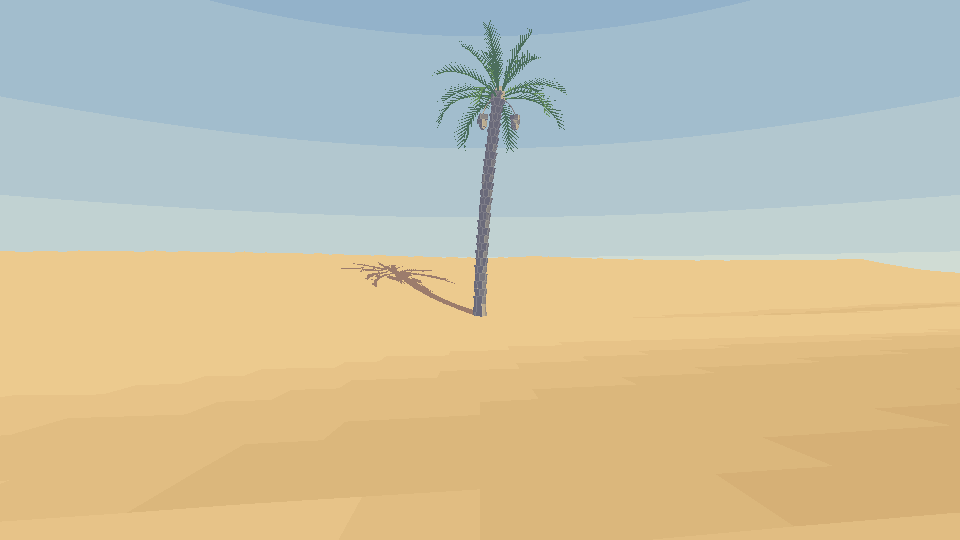
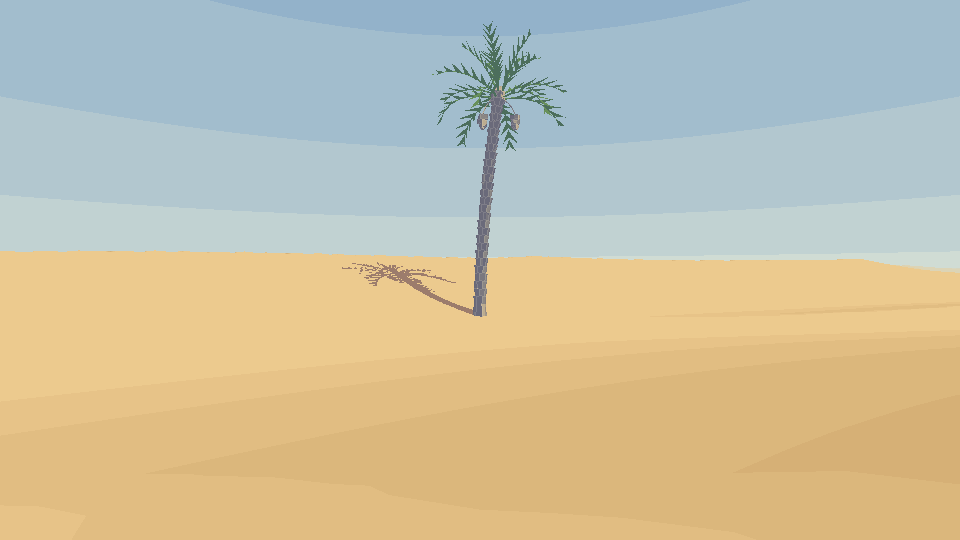
desert-poc cycle 2: smooth dune normals, ground to 380 m with a stitched 4 m ring
- ISSUE-001: per-vertex normals from the dune height function's gradient
- ISSUE-002: 1 m grid within 120 m, 4 m cells out to 380 m, sharing the
  fine border's vertices with no cracks (180,920 triangles)

Changed region(s): [[0.4688, 0.0593, 0.5938, 0.2667], [0.9375, 0.4741, 1.0, 0.5037], [0.375, 0.4741, 0.4062, 0.5333]]

diff --git a/desert/src/world.cpp b/desert/src/world.cpp
@@ -10,6 +10,7 @@
 #include <cmath>
 #include <cstdint>
 #include <string>
+#include <utility>
 #include <vector>
 
 namespace desert {
@@ -61,40 +62,102 @@ float ridgeProfile(float u, float windward) {
   return v * v;
 }
 
-void appendGround(pxe::SurfaceGeometry& geometry) {
-  const int n = static_cast<int>(2.f * kGroundHalf / kGroundCell);
-  // duneHeight at every corner of the grid, row by row along +x.
-  std::vector<float> corner(static_cast<std::size_t>((n + 1) * (n + 1)));
-  for (int j = 0; j <= n; ++j)
-    for (int i = 0; i <= n; ++i)
-      corner[static_cast<std::size_t>(j * (n + 1) + i)] =
-          duneHeight(-kGroundHalf + static_cast<float>(i) * kGroundCell, -kGroundHalf + static_cast<float>(j) * kGroundCell);
-  auto at = [&](int i, int j) {
-    return glm::vec3{-kGroundHalf + static_cast<float>(i) * kGroundCell, corner[static_cast<std::size_t>(j * (n + 1) + i)],
-                     -kGroundHalf + static_cast<float>(j) * kGroundCell};
-  };
+// How far either side of a point the dunes' slope is read for its normal,
+// metres. The same step everywhere, so a vertex the fine and coarse grids
+// share has one normal and the two shade alike where they meet.
+constexpr float kNormalStep = 0.5f;
 
-  // Each cell is two triangles split corner (i, j) to (i+1, j+1), as
-  // groundHeight reads them, each with its own face normal, so the toon
-  // ramp bands the slopes facet by facet.
+// The dunes' smooth normal at world xz, from duneHeight's slope across the
+// point, so the toon ramp bands each slope in contours that follow its
+// curve rather than facet by facet.
+glm::vec3 duneNormal(float x, float z) {
+  const float e = kNormalStep;
+  return glm::normalize(glm::vec3{duneHeight(x - e, z) - duneHeight(x + e, z), 2.f * e,
+                                  duneHeight(x, z - e) - duneHeight(x, z + e)});
+}
+
+void appendGround(pxe::SurfaceGeometry& geometry) {
   std::vector<pxe::Vertex> v;
   std::vector<std::uint32_t> idx;
-  v.reserve(static_cast<std::size_t>(n * n * 6));
-  idx.reserve(static_cast<std::size_t>(n * n * 6));
-  auto triangle = [&](glm::vec3 a, glm::vec3 b, glm::vec3 c) {
-    // Wound counter-clockwise seen from above: meshes are drawn with back
-    // faces culled.
-    const glm::vec3 normal = glm::normalize(glm::cross(b - a, c - a));
-    const auto base = static_cast<std::uint32_t>(v.size());
-    for (const glm::vec3& p : {a, b, c})
-      v.push_back({p.x, p.y, p.z, normal.x, normal.y, normal.z, static_cast<float>(pxe::kSurfSand)});
-    idx.insert(idx.end(), {base, base + 1, base + 2});
+  auto vertex = [&](float x, float z) {
+    const glm::vec3 n = duneNormal(x, z);
+    v.push_back({x, duneHeight(x, z), z, n.x, n.y, n.z, static_cast<float>(pxe::kSurfSand)});
+    return static_cast<std::uint32_t>(v.size() - 1);
   };
-  for (int j = 0; j < n; ++j)
-    for (int i = 0; i < n; ++i) {
-      const glm::vec3 p00 = at(i, j), p10 = at(i + 1, j), p01 = at(i, j + 1), p11 = at(i + 1, j + 1);
-      triangle(p00, p11, p10);
-      triangle(p00, p01, p11);
+  // Wound counter-clockwise seen from above, whatever order the corners
+  // come in: meshes are drawn with back faces culled.
+  auto triangle = [&](std::uint32_t a, std::uint32_t b, std::uint32_t c) {
+    const pxe::Vertex &pa = v[a], &pb = v[b], &pc = v[c];
+    if ((pb.pz - pa.pz) * (pc.px - pa.px) - (pb.px - pa.px) * (pc.pz - pa.pz) < 0.f) std::swap(b, c);
+    idx.insert(idx.end(), {a, b, c});
+  };
+
+  // The fine grid, 1 m cells over the middle, each cell two triangles split
+  // corner (i, j) to (i+1, j+1), as groundHeight reads them.
+  const int nf = static_cast<int>(2.f * kFineHalf / kFineCell);
+  std::vector<std::uint32_t> fine(static_cast<std::size_t>((nf + 1) * (nf + 1)));
+  auto f = [&](int i, int j) { return fine[static_cast<std::size_t>(j * (nf + 1) + i)]; };
+  for (int j = 0; j <= nf; ++j)
+    for (int i = 0; i <= nf; ++i)
+      fine[static_cast<std::size_t>(j * (nf + 1) + i)] =
+          vertex(-kFineHalf + static_cast<float>(i) * kFineCell, -kFineHalf + static_cast<float>(j) * kFineCell);
+  for (int j = 0; j < nf; ++j)
+    for (int i = 0; i < nf; ++i) {
+      triangle(f(i, j), f(i + 1, j + 1), f(i + 1, j));
+      triangle(f(i, j), f(i, j + 1), f(i + 1, j + 1));
+    }
+
+  // The coarse ring, 4 m cells out to the ground's edge. Its corners on the
+  // fine grid's border are the fine grid's own vertices; [c0, c1] is the
+  // fine grid's span in coarse corners, and each coarse side along it holds
+  // `ratio` fine cells.
+  const int nc = static_cast<int>(2.f * kGroundHalf / kCoarseCell);
+  const int c0 = static_cast<int>((kGroundHalf - kFineHalf) / kCoarseCell);
+  const int c1 = nc - c0;
+  const int ratio = static_cast<int>(kCoarseCell / kFineCell);
+  std::vector<std::uint32_t> coarse(static_cast<std::size_t>((nc + 1) * (nc + 1)));
+  auto c = [&](int i, int j) { return coarse[static_cast<std::size_t>(j * (nc + 1) + i)]; };
+  for (int j = 0; j <= nc; ++j)
+    for (int i = 0; i <= nc; ++i) {
+      std::uint32_t& slot = coarse[static_cast<std::size_t>(j * (nc + 1) + i)];
+      if (i >= c0 && i <= c1 && j >= c0 && j <= c1) {
+        // On the fine grid's border, its vertex; inside it, unused.
+        if (i == c0 || i == c1 || j == c0 || j == c1) slot = f((i - c0) * ratio, (j - c0) * ratio);
+        continue;
+      }
+      slot = vertex(-kGroundHalf + static_cast<float>(i) * kCoarseCell, -kGroundHalf + static_cast<float>(j) * kCoarseCell);
+    }
+
+  // A coarse cell beside the fine grid: its near side is the fine border's
+  // vertices side[0..ratio], and its far corners a (beside side[0]) and b
+  // (beside side[ratio]). Fanning the near side's first half to a, its
+  // second half to b, and its middle to both, uses every fine vertex along
+  // the side, so no edge of the fine grid ends part-way along a coarse one.
+  std::vector<std::uint32_t> side(static_cast<std::size_t>(ratio + 1));
+  auto stitch = [&](std::uint32_t a, std::uint32_t b) {
+    const int mid = ratio / 2;
+    for (int k = 0; k < mid; ++k) triangle(side[static_cast<std::size_t>(k)], side[static_cast<std::size_t>(k + 1)], a);
+    triangle(side[static_cast<std::size_t>(mid)], b, a);
+    for (int k = mid; k < ratio; ++k) triangle(side[static_cast<std::size_t>(k)], side[static_cast<std::size_t>(k + 1)], b);
+  };
+  for (int j = 0; j < nc; ++j)
+    for (int i = 0; i < nc; ++i) {
+      const bool alongX = i >= c0 && i < c1, alongZ = j >= c0 && j < c1;
+      if (alongX && alongZ) continue;  // the fine grid's
+      if (alongX && (j == c0 - 1 || j == c1)) {
+        // Below or above the fine grid in z: its near side runs along x.
+        const int row = j == c1 ? nf : 0, far = j == c1 ? j + 1 : j;
+        for (int k = 0; k <= ratio; ++k) side[static_cast<std::size_t>(k)] = f((i - c0) * ratio + k, row);
+        stitch(c(i, far), c(i + 1, far));
+      } else if (alongZ && (i == c0 - 1 || i == c1)) {
+        // Either side of the fine grid in x: its near side runs along z.
+        const int column = i == c1 ? nf : 0, far = i == c1 ? i + 1 : i;
+        for (int k = 0; k <= ratio; ++k) side[static_cast<std::size_t>(k)] = f(column, (j - c0) * ratio + k);
+        stitch(c(far, j), c(far, j + 1));
+      } else {
+        triangle(c(i, j), c(i + 1, j + 1), c(i + 1, j));
+        triangle(c(i, j), c(i, j + 1), c(i + 1, j + 1));
+      }
     }
   geometry.append(pxe::kSurfSand, v, idx);
 }
@@ -118,12 +181,12 @@ float duneHeight(float x, float z) {
 }
 
 float groundHeight(float x, float z) {
-  const float gx = (x + kGroundHalf) / kGroundCell;
-  const float gz = (z + kGroundHalf) / kGroundCell;
+  const float gx = (x + kFineHalf) / kFineCell;
+  const float gz = (z + kFineHalf) / kFineCell;
   const float i = std::floor(gx), j = std::floor(gz);
   const float fx = gx - i, fz = gz - j;
   auto corner = [&](float di, float dj) {
-    return duneHeight(-kGroundHalf + (i + di) * kGroundCell, -kGroundHalf + (j + dj) * kGroundCell);
+    return duneHeight(-kFineHalf + (i + di) * kFineCell, -kFineHalf + (j + dj) * kFineCell);
   };
   const float h00 = corner(0.f, 0.f), h11 = corner(1.f, 1.f);
   // The cell's two triangles, either side of its (i, j)-(i+1, j+1) diagonal.

diff --git a/desert/src/world.hpp b/desert/src/world.hpp
@@ -6,10 +6,15 @@
 
 namespace desert {
 
-// The ground: sand dunes over a 300 x 300 m square centred on the origin,
-// faceted on a 1 m grid, so it reaches the far plane's haze.
-constexpr float kGroundHalf = 150.f;
-constexpr float kGroundCell = 1.f;
+// The ground: sand dunes over a 760 x 760 m square centred on the origin,
+// so from anywhere in the play area (player.hpp's kPlayHalf, 80 m) its edge
+// is at least 300 m away, past the far plane and fully hazed. The middle
+// 240 x 240 m is a 1 m grid; the ring outside it has 4 m cells, joined to
+// the fine grid's border vertices so there are no cracks between them.
+constexpr float kGroundHalf = 380.f;
+constexpr float kFineHalf = 120.f;
+constexpr float kFineCell = 1.f;
+constexpr float kCoarseCell = 4.f;
 
 // The date palm (desert/assets/scenes/date_palm.glb) stands at the world
 // origin, on the windward side of a low dune that rises behind it from the
@@ -24,9 +29,10 @@ constexpr float kPalmRadius = 0.40f;
 // from 2 to 6 m crest to trough.
 float duneHeight(float x, float z);
 
-// The drawn ground's height at world xz: duneHeight at the 1 m grid's
-// corners, flat across each of its triangles, so whatever stands or walks on
-// the ground sits exactly on the faces drawn.
+// The drawn ground's height at world xz, within the fine grid (|x|, |z| up
+// to kFineHalf, which holds the whole play area): duneHeight at the 1 m
+// grid's corners, flat across each of its triangles, so whatever stands or
+// walks on the ground sits exactly on the faces drawn.
 float groundHeight(float x, float z);
 
 // The desert's scene: the dunes, all sand, and the palm on them. The game

diff --git a/docs/tasks/desert-poc/handoff.md b/docs/tasks/desert-poc/handoff.md
@@ -137,3 +137,56 @@ Run `tools/build.sh release desert` (or `./build/release/desert/pxe_desert`).
 - **The collision radius is wider than the trunk.** The palm cylinder is 0.40 m (assets.md) plus a 0.3 m body radius (`kBodyRadius`), so the eye stops 0.7 m from the axis. That keeps the 0.1 m near plane well clear of the bark. The task names only the trunk's radius, so this extra radius is my choice.
 - **The gamepad can't release the cursor or quit.** Nothing in the task assigns those to it. Escape and the click are keyboard and mouse only.
 - **Looking and walking pause whenever the cursor is released**, so a gamepad-only player must keep the cursor captured. If the window loses focus, the cursor stays in whatever state it was in.
+
+## Cycle 2
+Build: pass. The clean `check` preset build gives only the expected stb_image_write `sprintf` warning.
+
+### Changes
+- `desert/src/world.hpp`:
+  - `kGroundHalf` goes from 150 to 380 m.
+  - New `kFineHalf` (120 m), `kFineCell` (1 m) and `kCoarseCell` (4 m) replace `kGroundCell`.
+  - The ground's and `groundHeight`'s comments are updated.
+- `desert/src/world.cpp`:
+  - `appendGround` now builds an indexed mesh with smooth per-vertex normals, from the new `duneNormal`: a central difference of `duneHeight`, ±0.5 m.
+  - It builds a 1 m fine grid within ±120 m, and a 4 m coarse ring out to ±380 m.
+  - The ring shares the fine grid's border vertices. Each ring cell along the border fans the 5 fine vertices on its near side to its far corners.
+  - `groundHeight` reads the fine grid from `kFineHalf`. It gives the same corner points as before.
+- `README.md`, `docs/architecture.md` (the desert world row) and `desert/docs/art-style.md` (dunes line): faceted 1 m ground / 300 × 300 m changed to the smooth-shaded 760 × 760 m ground.
+- `docs/tasks/desert-poc/capture_hour{10,16.5,19}.png` were re-captured, and `capture_corner.png` is new: from (-80, -80) at eye height, looking level toward (-1, -1), from a temporary spawn edit that has since been reverted. No flag was added.
+
+### Issues addressed
+- ISSUE-001: smooth normals from the dune height function's gradient, so the toon bands follow the dunes' curves.
+- ISSUE-002: the ground now runs to ±380 m. It has 1 m cells within ±120 m and 4 m cells outside, stitched with no cracks or T-junctions. There are 180,920 triangles.
+
+### Layering
+- Engine: none.
+- Game: `desert/src/world.cpp` builds the ground into the game-owned `World::scene`, as before.
+- Misplaced code touched: none.
+
+### Verification
+- **Mesh check** (temporary code, removed): 180,920 triangles (cycle 1: 180,000) and 90,841 vertices.
+  - Every edge is shared by exactly two triangles, apart from the 760 on the outer ±380 m edge.
+  - No edge is used three times, and every triangle faces up.
+- **Determinism:** two `pxe_desert --capture` runs give byte-identical PNGs.
+- **Byte-identical to dba41e7:** `pxe` default, `--scene hills`, `--hour 21 --foxes 3`, `--hour 21 --candles --shelter-test --extra-fires 6`, `--self-test` output, `pxe_minimal --capture` and `pxe_minimal --first-person --capture`. Nothing outside `desert/` and the docs changed.
+- **Dune banding** (`capture_hour16.5.png`, `capture_hour10.png`):
+  - The slopes cut into wide, clean bands that follow each ridge's curve, and the triangle checker is gone.
+  - What remains is pixel stair-stepping along band edges and some small notches on far crest lines near the horizon. Those are raster steps at grazing angles, not facets.
+  - `capture_hour19.png` is night: the sand is nearly one flat blue-grey tone, as in cycle 1.
+- **Horizon edge** (`capture_corner.png`):
+  - From the play-area corner, looking out, the sand runs to the horizon with no line where it ends. Its last pixel rows step into the sky's horizon colour.
+  - A rerun of the same pose with the ground at ±1000 m was byte-identical to it, so no part of the 380 m edge is visible.
+  - From the spawn, the right of the view now shows hazed dunes where cycle 1 showed the ground ending.
+- **Fronds** (revision 2, REQ-001): at 25 m the crown reads as separate broad leaflets on each rib, with no speckle. A few single lighter-green pixels sit on lit blade edges.
+
+### How to playtest
+Run `tools/build.sh release desert`.
+1. **Banding.** Look across the dunes at 16.5, then `--hour 10` and `--hour 17.6`. The light and shadow bands on the slopes should have smooth edges that follow each ridge. There should be no checker of triangles, especially at grazing angles looking along a dune.
+2. **Horizon.** Walk to each corner of the play area and to the middle of each side, and look outward and turn. The sand should fade into the horizon colour without a hard edge or a pale strip of missing ground.
+3. **Coarse ring.** Stand at the play-area edge facing out. The 4 m cells start 40 m beyond the edge. Check there is no visible seam, crack or shading line where they begin.
+4. **Walking** should feel exactly as before. The play area is all on the unchanged 1 m grid, so the eye height follows the same triangles.
+
+### Known limitations
+- **The engine's ground height map grows with the ground.** `pxe::buildSceneMaps` builds `scene.ground` at 0.2 m cells over the whole sand ground: 3,801 × 3,801 floats, about 58 MB, against about 9 MB in cycle 1. The desert doesn't query it. It walks on its own `groundHeight`. Start-up stayed under half a second in a capture run. Avoiding the map would need an engine option or a change to the scene build order, so I left it.
+- **The ring is shaded from a smoother surface than it shows.** Its normals come from the true dune slope at each corner, while its 4 m triangles flatten the smallest (23 m) ridge layer. Far dunes in the ring can show bands that don't quite match their silhouettes. They start 40 m beyond the play area, at least 120 m from the spawn, and are mostly hazed.
+- **The palm's shadow breaks into dashes at the default hour.** Its thin trunk shadow, long under the low sun, shows as a dashed line to the right of the palm. This already happened in cycle 1 and comes from the engine's shadow map resolution. It is unchanged.

diff --git a/docs/tasks/desert-poc/issues.md b/docs/tasks/desert-poc/issues.md
@@ -1,5 +1,5 @@
 ## ISSUE-001: Dunes shade as a sawtooth triangle checker
-Status: open
+Status: fixed
 Severity: major
 Source: review
 Found in cycle: 1
@@ -9,9 +9,12 @@ Reopened: 0
 `desert/src/world.cpp` `appendGround` gives each triangle its own face normal. In `capture_hour16.5.png` the 1 m facets show as sawtooth band edges and a checker of triangles on the shaded slopes and in the foreground, which reads as noise. The user decided on smooth normals: each grid corner's normal from the dune surface (e.g. the gradient of `duneHeight`, or the average of the faces round it), so the toon ramp bands each slope in clean contours. Silhouettes and `groundHeight` are unchanged. See task.md Decisions (Terrain).
 
 ### Fix notes
+Root cause: `appendGround` emitted three unshared vertices per triangle, each carrying that triangle's face normal, so the toon ramp chose a band per 1 m triangle and the band edges followed the triangles' sawtooth.
+
+Change (`desert/src/world.cpp`): the ground is now indexed, one vertex per grid corner, and each vertex's normal is `duneNormal(x, z)`, a central difference of `duneHeight` 0.5 m either side (`kNormalStep`), as `examples/minimal` builds its ground's normals. The normal depends only on the world position, so the corners the fine and coarse grids share (ISSUE-002) have one normal and the two grids shade alike where they meet. Positions, the (i, j)-(i+1, j+1) split and `groundHeight` are unchanged. In the new `capture_hour16.5.png` the slopes cut into a few clean bands that follow the dunes, and the triangle checker and sawtooth are gone.
 
 ## ISSUE-002: The ground's edge shows as a hard line at the horizon
-Status: open
+Status: fixed
 Severity: major
 Source: review
 Found in cycle: 1
@@ -21,3 +24,10 @@ Reopened: 0
 The ground ends at ±150 m (`kGroundHalf`), but the haze starts 180 m from the eye (0.6 × the 300 m far plane), and the ground's edge can be 70 m from the play area's edge. The sand then ends in a crisp line against the sky (the right of `capture_hour16.5.png`). The user decided: extend the ground to ±380 m. Keep 1 m cells within ±120 m and use 4 m cells outside, stitched to the 1 m grid without cracks or T-junction gaps (for example, the inner grid's border vertices shared by fans to the coarse cells, or the coarse ring's inner edge subdivided to match). `groundHeight` must still match the drawn triangles everywhere the player can walk (within ±80 m, all fine grid). Check the triangle count stays near cycle 1's and say what it is. Confirm with a capture from the play-area corner (-80, -80) looking out that the ground's edge is fully hazed.
 
 ### Fix notes
+Root cause: the ground stopped at ±150 m while the haze only starts 180 m from the eye, so the ground's edge could be 70 m from the player and unhazed.
+
+Change (`desert/src/world.hpp`, `desert/src/world.cpp`): `kGroundHalf` is now 380 m. Within ±120 m (`kFineHalf`) the ground is the 1 m grid (240 x 240 cells). Outside it is a ring of 4 m cells (`kCoarseCell`) out to ±380 m. The coarse corners on the fine grid's border are the fine grid's own vertices (by index, not copies). Each of the 240 coarse cells along the border fans its near side's 5 fine vertices to its two far corners (5 triangles), so no fine edge ends part-way along a coarse edge. The 4 corner cells of the ring touch the fine grid only at a shared vertex and are plain quads. Winding is fixed per triangle by its turn seen from above. `groundHeight` now reads the fine grid from -120 m. Its corners are the same integer points as before, and the play area (±80 m) is all fine grid.
+
+Checked with temporary code, since removed: 180,920 triangles (cycle 1: 180,000) and 90,841 vertices. Every edge is shared by exactly two triangles except the 760 on the outer ±380 m boundary, so there are no cracks or T-junctions. No edge is used more than twice, and every triangle faces up.
+
+`capture_corner.png` is from (-80, -80), the eye 1.7 m up, looking level toward (-1, -1) (a temporary spawn pose, since reverted). The sand runs to the horizon and its last rows are the horizon colour. The same capture with the ground pushed out to ±1000 m is byte-identical, so nothing of the 380 m edge shows.

diff --git a/README.md b/README.md
@@ -46,7 +46,7 @@ The Sleeping Fox is a single-storey, half-timbered inn on stone footings with a 
 
 `pxe_desert` is a second game on the engine, a first-person proof of concept: you walk at eye height (1.7 m, real scale) over open sand dunes towards a single date palm, with no body, arms, tools or HUD. It looks through the engine's perspective camera (60° vertical field of view, 300 m far plane) with its banded sky and distance haze.
 
-- **The dunes** are generated from a height function in the game's code: three layers of long, wind-aligned ridges, each with a long windward slope up to a sharp crest and a steep downwind face, 2 to 6 metres from crest to trough. They are faceted on a 1 m grid, each triangle with its own normal, so the toon ramp bands the slopes facet by facet. The ground runs 300 × 300 m round the origin, all of it the engine's `Sand` surface (a warm ochre by day, orange in golden hour, pink-mauve at twilight, blue-grey at night), with no grass, ripples, rocks or scrub.
+- **The dunes** are generated from a height function in the game's code: three layers of long, wind-aligned ridges, each with a long windward slope up to a sharp crest and a steep downwind face, 2 to 6 metres from crest to trough. They are built on a 1 m grid with smooth normals, so the toon ramp cuts each slope into a few clean bands that follow the dune's curve. The ground runs 760 × 760 m round the origin, so from anywhere you can walk its edge is past the far plane and lost in the haze: 1 m cells over the middle 240 × 240 m and 4 m cells beyond, joined without cracks. All of it is the engine's `Sand` surface (a warm ochre by day, orange in golden hour, pink-mauve at twilight, blue-grey at night), with no grass, ripples, rocks or scrub.
 - **The palm** (`desert/assets/scenes/date_palm.glb`, built by [`desert/tools/blender/build_date_palm.py`](desert/tools/blender/build_date_palm.py)) stands at the origin on the side of a low dune: an 11 m curved trunk with stepped rings of frond stubs, 18 fronds up to 14.65 m and three hanging date clusters, in `Bark` and `Leaf`. Rebuild it with `/Applications/Blender.app/Contents/MacOS/Blender -b -P desert/tools/blender/build_date_palm.py`.
 - **You start** 25 m south of the palm (toward -z), facing it and looking level. The palm's trunk stops you (you slide round it), and so does the edge of the middle 160 × 160 m. Nothing else blocks.
 - **Time** is fixed: 16.5 unless `--hour` says, with a clear, still sky. There is no clock, weather, fire or sound.

diff --git a/docs/architecture.md b/docs/architecture.md
@@ -48,7 +48,7 @@ Home `game` is `game/`, `desert` is `desert/`.
 | Game-only data on `pxe::Scene` (`fires`, `focus`, `yawDegrees`): the engine never reads it | game | in place: `game::BuiltScene`, `game::FireSite` |
 | Which scene to build, and where objects are placed in it (`kTavernSpot`, `kRuinsFoxSpot`, ...) | game | in place |
 | Player character, fox, tavern, fireball | game | in place |
-| The desert's world: the dune height function and its 1 m faceted sand ground, the date palm loaded and placed at the origin, the sun's directions, the fixed hour | desert | in place: `desert/src/world.cpp` |
+| The desert's world: the dune height function and its smooth-shaded sand ground (1 m cells in the middle, 4 m cells out to the edge), the date palm loaded and placed at the origin, the sun's directions, the fixed hour | desert | in place: `desert/src/world.cpp` |
 | The desert's player: the eye, its yaw and pitch, walking and sprinting, ground following, sliding along the palm's trunk and the play area's edge, driving `pxe::FirstPersonCamera` | desert | in place: `desert/src/player.cpp` |
 | World clock and weather rules (`WorldClock`): time of day, when it rains, when lightning strikes, cloud drift, fires burning down and rain putting them out. The engine takes the results as data | game | in place |
 | Input actions (what a key or button does), the settings menu's contents and style (its `ImGui::` widget calls), which sounds play when | game | in place |

diff --git a/desert/docs/art-style.md b/desert/docs/art-style.md
@@ -24,7 +24,7 @@ Static assets: plants, rocks, buildings and props. The reference asset is the da
 - **Budgets.** A palm is about 3,000 triangles.
 
 ## Terrain
-- The dunes are generated in the game's code, not in Blender: long, smooth, wind-aligned ridges with a sharper crest on the downwind face, faceted on a 1 m grid so the toon ramp bands the slopes.
+- The dunes are generated in the game's code, not in Blender: long, smooth, wind-aligned ridges with a sharper crest on the downwind face, built on a 1 m grid with smooth normals, so the toon ramp cuts each slope into a few clean bands that follow its curve.
 - No ripples, rocks or scrub until a task adds them.
 
 ## Palette
